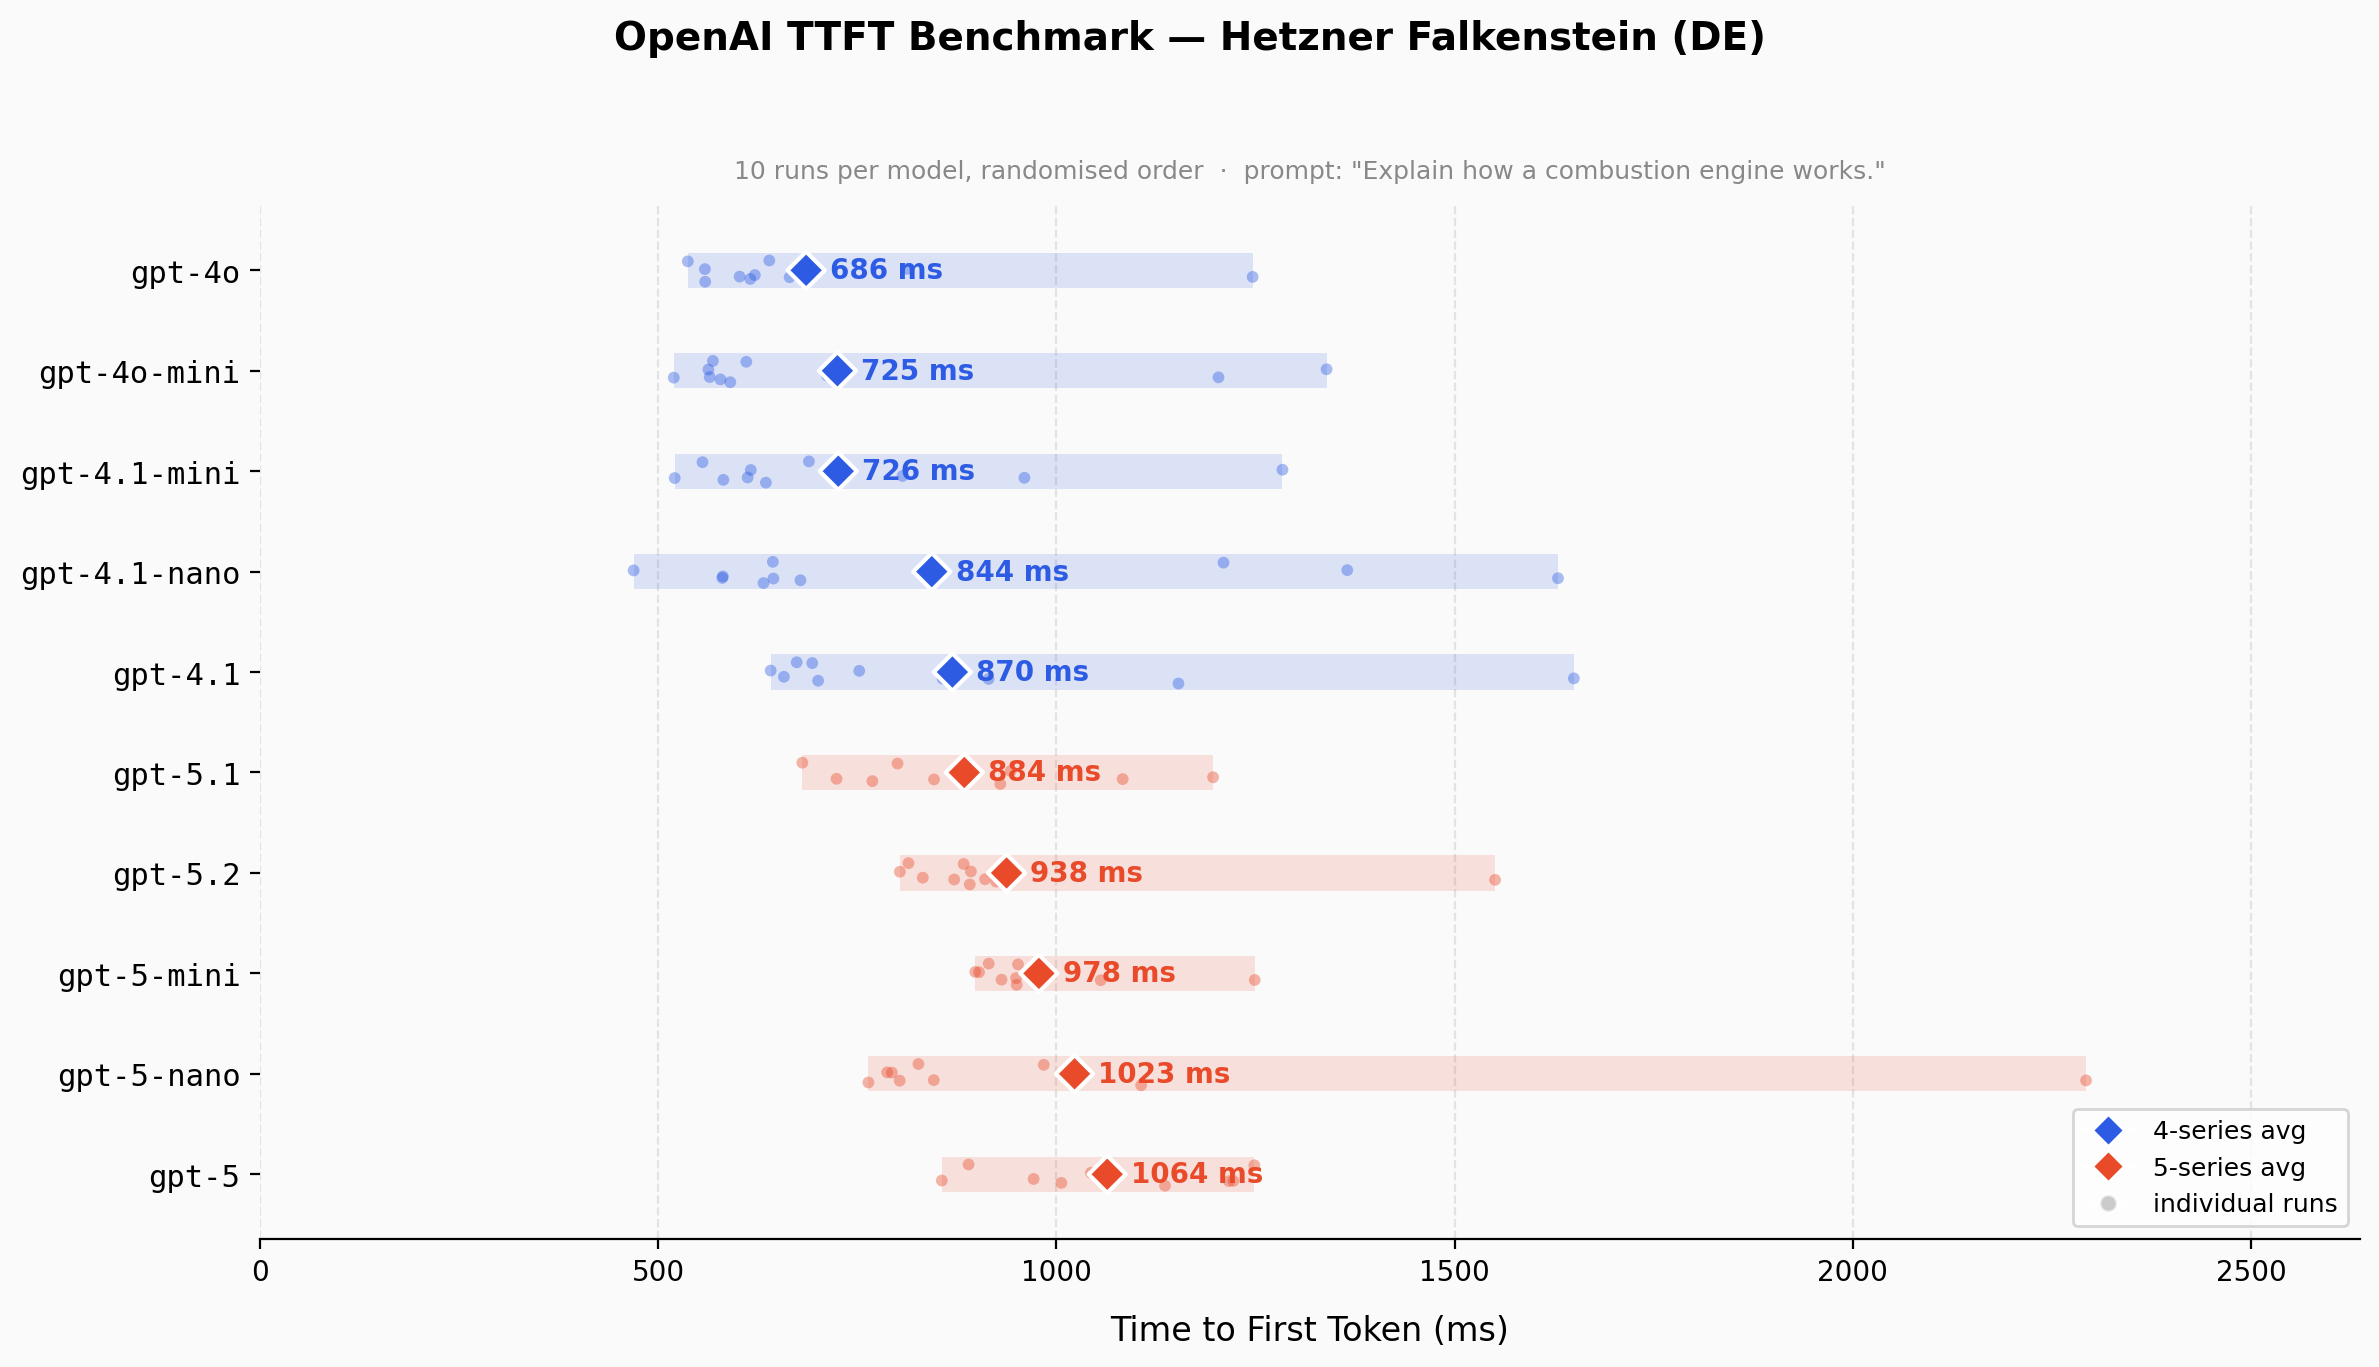
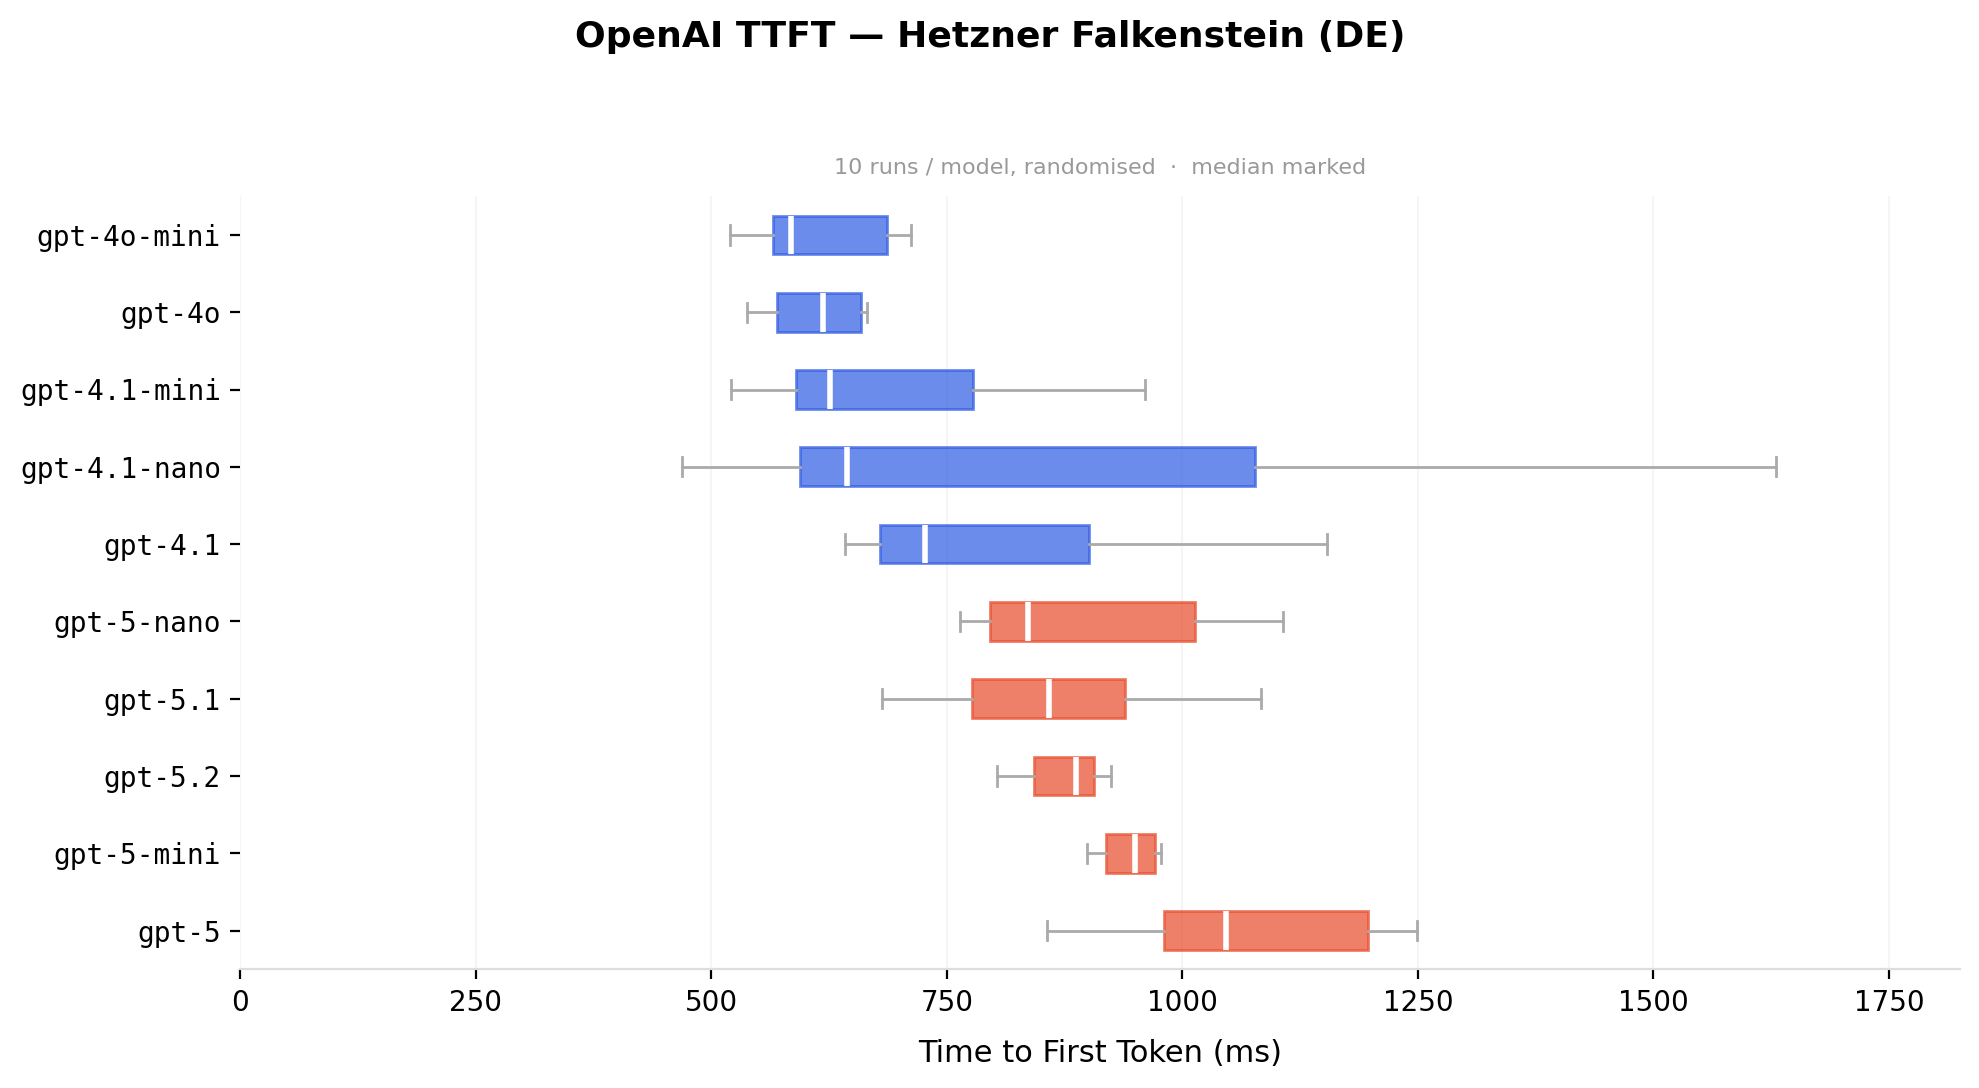
Add groq to bench

diff --git a/scripts/bench_chart.py b/scripts/bench_chart.py
@@ -1,9 +1,9 @@
 #!/usr/bin/env python3
 """
-Visualize TTFT benchmark results as a chart.
+Visualize TTFT benchmark results as a box plot.
 
 Usage:
-    python scripts/bench_chart.py                          # reads from stdin
+    python scripts/bench_chart.py                          # uses embedded data
     python scripts/bench_chart.py bench_results.json       # reads from file
     python scripts/bench_chart.py --save ttft_chart.png    # save to file
 """
@@ -23,85 +23,72 @@ DATA = {"prompt":"Explain how a combustion engine works.","runs_per_model":10,"r
 
 def make_chart(data: dict, save_path: Optional[str] = None) -> None:
     results = data["results"]
-    # Sort by avg TTFT (fastest first)
-    results = sorted(results, key=lambda r: r.get("avg_ms", float("inf")))
+    # Sort by median TTFT (fastest first)
+    results = sorted(results, key=lambda r: np.median(r.get("all_ms", [r.get("avg_ms", 0)])))
 
     models = [r["model"] for r in results]
-    avgs = [r["avg_ms"] for r in results]
-    mins = [r["min_ms"] for r in results]
-    maxs = [r["max_ms"] for r in results]
     all_points = [r.get("all_ms", []) for r in results]
-
     n = len(models)
-    y = np.arange(n)
 
-    # Colors: blue for 4-series, orange for 5-series
-    colors = ["#2D5BE3" if "4" in m else "#E84A2A" for m in models]
+    def _color(m: str) -> str:
+        if m.startswith("groq/"):
+            return "#F57C00"  # orange for Groq
+        if "5" in m:
+            return "#E84A2A"  # red for 5-series
+        return "#2D5BE3"      # blue for 4-series
 
-    fig, ax = plt.subplots(figsize=(12, max(4, n * 0.7)))
-    fig.patch.set_facecolor("#FAFAFA")
-    ax.set_facecolor("#FAFAFA")
+    colors = [_color(m) for m in models]
 
-    # Min-max range bars
-    for i in range(n):
-        ax.barh(y[i], maxs[i] - mins[i], left=mins[i], height=0.35,
-                color=colors[i], alpha=0.15, edgecolor="none")
+    fig, ax = plt.subplots(figsize=(10, max(3.5, n * 0.55)))
+    fig.patch.set_facecolor("white")
+    ax.set_facecolor("white")
 
-    # Individual data points (jittered slightly)
-    for i, pts in enumerate(all_points):
-        jitter = np.random.default_rng(42).uniform(-0.12, 0.12, len(pts))
-        ax.scatter(pts, [y[i]] * len(pts) + jitter, color=colors[i],
-                   alpha=0.4, s=18, zorder=3, edgecolors="none")
+    bp = ax.boxplot(
+        all_points,
+        vert=False,
+        patch_artist=True,
+        widths=0.5,
+        whis=1.5,  # default: 1.5× IQR
+        medianprops=dict(color="white", linewidth=2),
+        whiskerprops=dict(color="#AAA", linewidth=1),
+        capprops=dict(color="#AAA", linewidth=1),
+        showfliers=True,
+        flierprops=dict(marker="o", markersize=4, alpha=0.5, markeredgecolor="none"),
+    )
 
-    # Average markers
-    ax.scatter(avgs, y, color=colors, s=90, zorder=4, edgecolors="white",
-               linewidths=1.5, marker="D")
+    for i, (patch, color) in enumerate(zip(bp["boxes"], colors)):
+        patch.set_facecolor(color)
+        patch.set_alpha(0.7)
+        patch.set_edgecolor(color)
+        bp["fliers"][i].set_markerfacecolor(color)
 
-    # Labels on the right of each avg marker
-    for i in range(n):
-        ax.text(avgs[i] + 30, y[i], f"{avgs[i]:.0f} ms",
-                va="center", ha="left", fontsize=10, fontweight="bold",
-                color=colors[i])
+    # Scale x-axis to the largest whisker cap (ignore fliers)
+    whisker_max = max(line.get_xdata().max() for line in bp["whiskers"])
+    ax.set_xlim(0, whisker_max * 1.12)
 
-    ax.set_yticks(y)
-    ax.set_yticklabels(models, fontsize=11, fontfamily="monospace")
+    ax.set_yticks(range(1, n + 1))
+    ax.set_yticklabels(models, fontsize=10, fontfamily="monospace")
     ax.invert_yaxis()
-    ax.set_xlabel("Time to First Token (ms)", fontsize=12, labelpad=10)
-    ax.set_xlim(0, max(maxs) * 1.15)
+    ax.set_xlabel("Time to First Token (ms)", fontsize=11, labelpad=8)
 
-    # Grid
-    ax.xaxis.grid(True, linestyle="--", alpha=0.3)
+    ax.xaxis.grid(True, linestyle="-", alpha=0.12)
     ax.yaxis.grid(False)
     ax.set_axisbelow(True)
 
-    # Remove top/right spines
-    ax.spines["top"].set_visible(False)
-    ax.spines["right"].set_visible(False)
-    ax.spines["left"].set_visible(False)
+    for spine in ("top", "right", "left"):
+        ax.spines[spine].set_visible(False)
+    ax.spines["bottom"].set_color("#DDD")
 
-    # Title
-    fig.suptitle("OpenAI TTFT Benchmark — Hetzner Falkenstein (DE)",
-                 fontsize=14, fontweight="bold", y=0.97)
-    ax.set_title(f"10 runs per model, randomised order  ·  prompt: \"{data['prompt'][:50]}\"",
-                 fontsize=9, color="#888", pad=10)
-
-    # Legend
-    from matplotlib.lines import Line2D
-    legend_elements = [
-        Line2D([0], [0], marker="D", color="w", markerfacecolor="#2D5BE3",
-               markersize=8, label="4-series avg"),
-        Line2D([0], [0], marker="D", color="w", markerfacecolor="#E84A2A",
-               markersize=8, label="5-series avg"),
-        Line2D([0], [0], marker="o", color="w", markerfacecolor="#999",
-               markersize=6, alpha=0.5, label="individual runs"),
-    ]
-    ax.legend(handles=legend_elements, loc="lower right", fontsize=9,
-              framealpha=0.8)
+    runs = data.get("runs_per_model", "?")
+    fig.suptitle("OpenAI TTFT — Hetzner Falkenstein (DE)",
+                 fontsize=13, fontweight="bold", y=0.98)
+    ax.set_title(f"{runs} runs / model, randomised  ·  median marked",
+                 fontsize=8, color="#999", pad=8)
 
     plt.tight_layout(rect=[0, 0, 1, 0.94])
 
     if save_path:
-        fig.savefig(save_path, dpi=200, bbox_inches="tight", facecolor=fig.get_facecolor())
+        fig.savefig(save_path, dpi=200, bbox_inches="tight", facecolor="white")
         print(f"Saved to {save_path}")
     else:
         plt.show()

diff --git a/shuo/server.py b/shuo/server.py
@@ -94,25 +94,45 @@ async def trigger_call(phone_number: str):
 
 BENCH_PROMPT = "Explain how a combustion engine works."
 
+# Each entry: (display_name, provider_key, model_id)
+# provider_key is used to look up the right AsyncOpenAI client
 DEFAULT_MODELS = [
-    # 4-series
-    "gpt-4o-mini",
-    "gpt-4o",
-    "gpt-4.1-nano",
-    "gpt-4.1-mini",
-    "gpt-4.1",
-    # 5-series
-    "gpt-5-nano",
-    "gpt-5-mini",
-    "gpt-5",
-    "gpt-5.1",
-    "gpt-5.2",
+    # OpenAI 4-series
+    ("gpt-4o-mini",   "openai", "gpt-4o-mini"),
+    ("gpt-4o",        "openai", "gpt-4o"),
+    ("gpt-4.1-nano",  "openai", "gpt-4.1-nano"),
+    ("gpt-4.1-mini",  "openai", "gpt-4.1-mini"),
+    ("gpt-4.1",       "openai", "gpt-4.1"),
+    # OpenAI 5-series
+    ("gpt-5-nano",    "openai", "gpt-5-nano"),
+    ("gpt-5-mini",    "openai", "gpt-5-mini"),
+    ("gpt-5",         "openai", "gpt-5"),
+    ("gpt-5.1",       "openai", "gpt-5.1"),
+    ("gpt-5.2",       "openai", "gpt-5.2"),
+    # Groq
+    ("groq/llama-3.3-70b",  "groq", "llama-3.3-70b-versatile"),
+    ("groq/llama-3.1-8b",   "groq", "llama-3.1-8b-instant"),
 ]
 
 BENCH_MESSAGES = [
     {"role": "system", "content": "You are a helpful assistant."},
     {"role": "user", "content": BENCH_PROMPT},
 ]
+
+
+def _make_clients() -> dict:
+    """Build provider → AsyncOpenAI client map."""
+    clients = {}
+    oai_key = os.getenv("OPENAI_API_KEY", "")
+    if oai_key:
+        clients["openai"] = AsyncOpenAI(api_key=oai_key)
+    groq_key = os.getenv("GROQ_API_KEY", "")
+    if groq_key:
+        clients["groq"] = AsyncOpenAI(
+            api_key=groq_key,
+            base_url="https://api.groq.com/openai/v1",
+        )
+    return clients
 
 
 async def _measure_ttft(client: AsyncOpenAI, model: str) -> float:
@@ -163,45 +183,59 @@ async def bench_ttft(
         curl https://your-server/bench/ttft
         curl https://your-server/bench/ttft?models=gpt-4o-mini,gpt-4o&runs=5
     """
-    model_list = (
-        [m.strip() for m in models.split(",") if m.strip()]
-        if models
-        else DEFAULT_MODELS
-    )
+    clients = _make_clients()
 
-    client = AsyncOpenAI(api_key=os.getenv("OPENAI_API_KEY", ""))
+    # Build model list: use DEFAULT_MODELS or parse comma-separated overrides
+    if models:
+        # For custom input, assume openai provider unless "groq/" prefixed
+        entries = []
+        for m in models.split(","):
+            m = m.strip()
+            if not m:
+                continue
+            if m.startswith("groq/"):
+                entries.append((m, "groq", m.removeprefix("groq/")))
+            else:
+                entries.append((m, "openai", m))
+        model_entries = entries
+    else:
+        model_entries = DEFAULT_MODELS
+
+    # Filter out models whose provider has no API key
+    model_entries = [(name, prov, mid) for name, prov, mid in model_entries if prov in clients]
 
     # Build a shuffled schedule: each model appears `runs` times, interleaved
-    schedule = [(m, i) for m in model_list for i in range(runs)]
+    schedule = [(name, prov, mid, i) for name, prov, mid in model_entries for i in range(runs)]
     random.shuffle(schedule)
 
     total = len(schedule)
-    logger.info(f"TTFT benchmark: {len(model_list)} models × {runs} runs = {total} calls (randomised)")
+    names = [name for name, _, _ in model_entries]
+    logger.info(f"TTFT benchmark: {len(model_entries)} models × {runs} runs = {total} calls (randomised)")
 
     times_by_model: dict[str, list[float]] = defaultdict(list)
     errors_by_model: dict[str, list[str]] = defaultdict(list)
 
-    for idx, (model, run_i) in enumerate(schedule, 1):
+    for idx, (name, prov, mid, run_i) in enumerate(schedule, 1):
         try:
-            ms = await _measure_ttft(client, model)
-            times_by_model[model].append(round(ms, 1))
-            logger.info(f"  [{idx}/{total}] {model} #{run_i+1} → {ms:.0f} ms")
+            ms = await _measure_ttft(clients[prov], mid)
+            times_by_model[name].append(round(ms, 1))
+            logger.info(f"  [{idx}/{total}] {name} #{run_i+1} → {ms:.0f} ms")
         except Exception as e:
-            errors_by_model[model].append(f"run {run_i+1}: {e}")
-            logger.info(f"  [{idx}/{total}] {model} #{run_i+1} → ERROR")
+            errors_by_model[name].append(f"run {run_i+1}: {e}")
+            logger.info(f"  [{idx}/{total}] {name} #{run_i+1} → ERROR")
 
-    # Aggregate stats per model (preserve original model order)
+    # Aggregate stats per model (preserve original order)
     results = []
-    for model in model_list:
-        t = times_by_model.get(model, [])
-        errs = errors_by_model.get(model, [])
+    for name in names:
+        t = times_by_model.get(name, [])
+        errs = errors_by_model.get(name, [])
         if not t:
-            results.append({"model": model, "error": errs[0] if errs else "no data"})
-            logger.info(f"  {model} → ERROR: {errs[0] if errs else 'no data'}")
+            results.append({"model": name, "error": errs[0] if errs else "no data"})
+            logger.info(f"  {name} → ERROR: {errs[0] if errs else 'no data'}")
             continue
         avg = round(sum(t) / len(t), 1)
         entry: dict = {
-            "model": model,
+            "model": name,
             "runs": len(t),
             "avg_ms": avg,
             "min_ms": min(t),
@@ -211,7 +245,7 @@ async def bench_ttft(
         if errs:
             entry["errors"] = errs
         results.append(entry)
-        logger.info(f"  {model} → avg {avg} ms  (min {min(t)}, max {max(t)})")
+        logger.info(f"  {name} → avg {avg} ms  (min {min(t)}, max {max(t)})")
 
     return JSONResponse({
         "prompt": BENCH_PROMPT,
